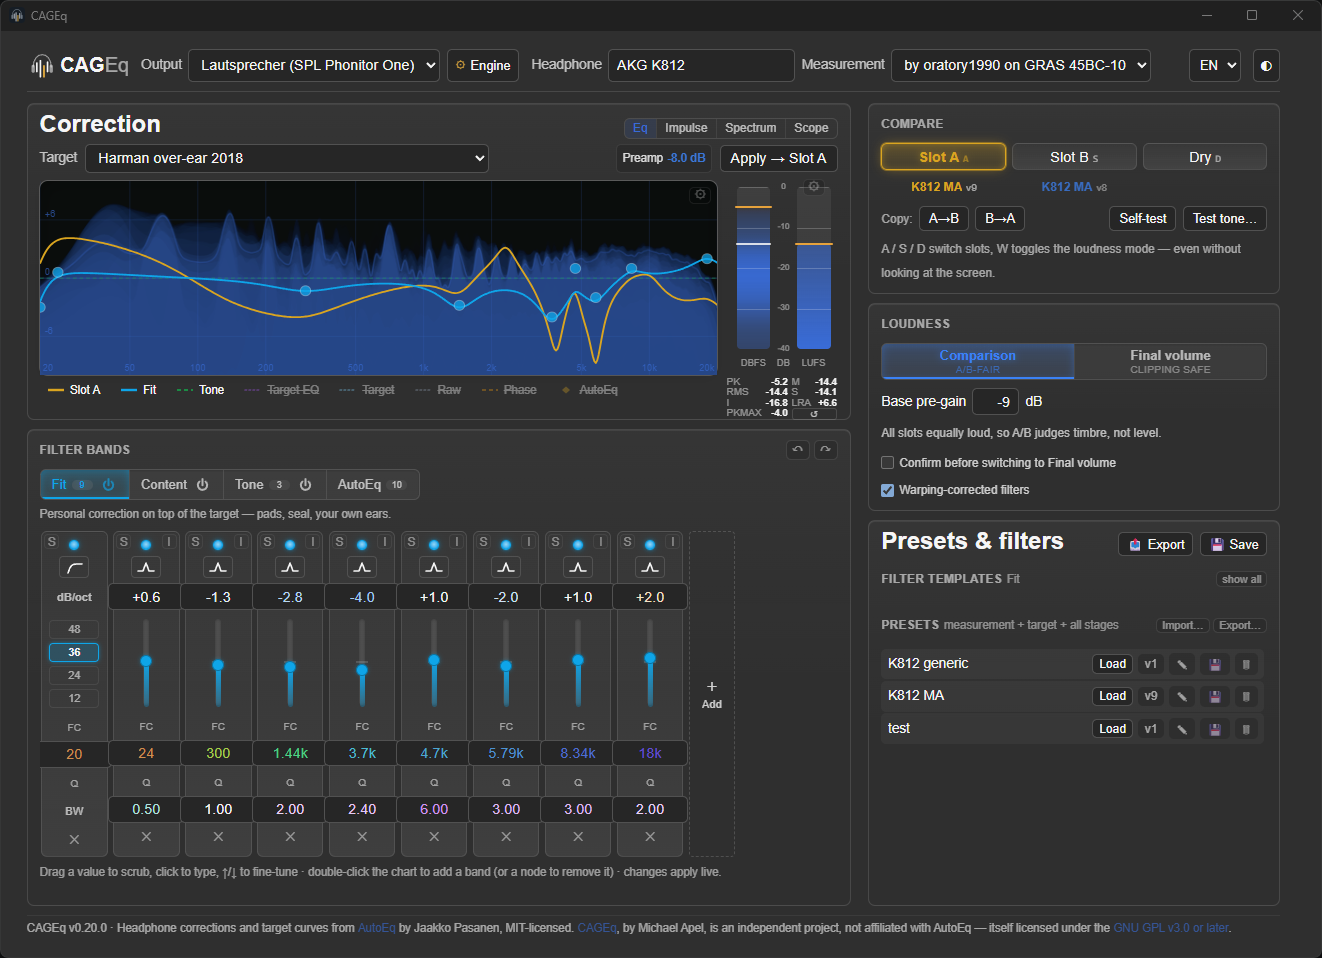
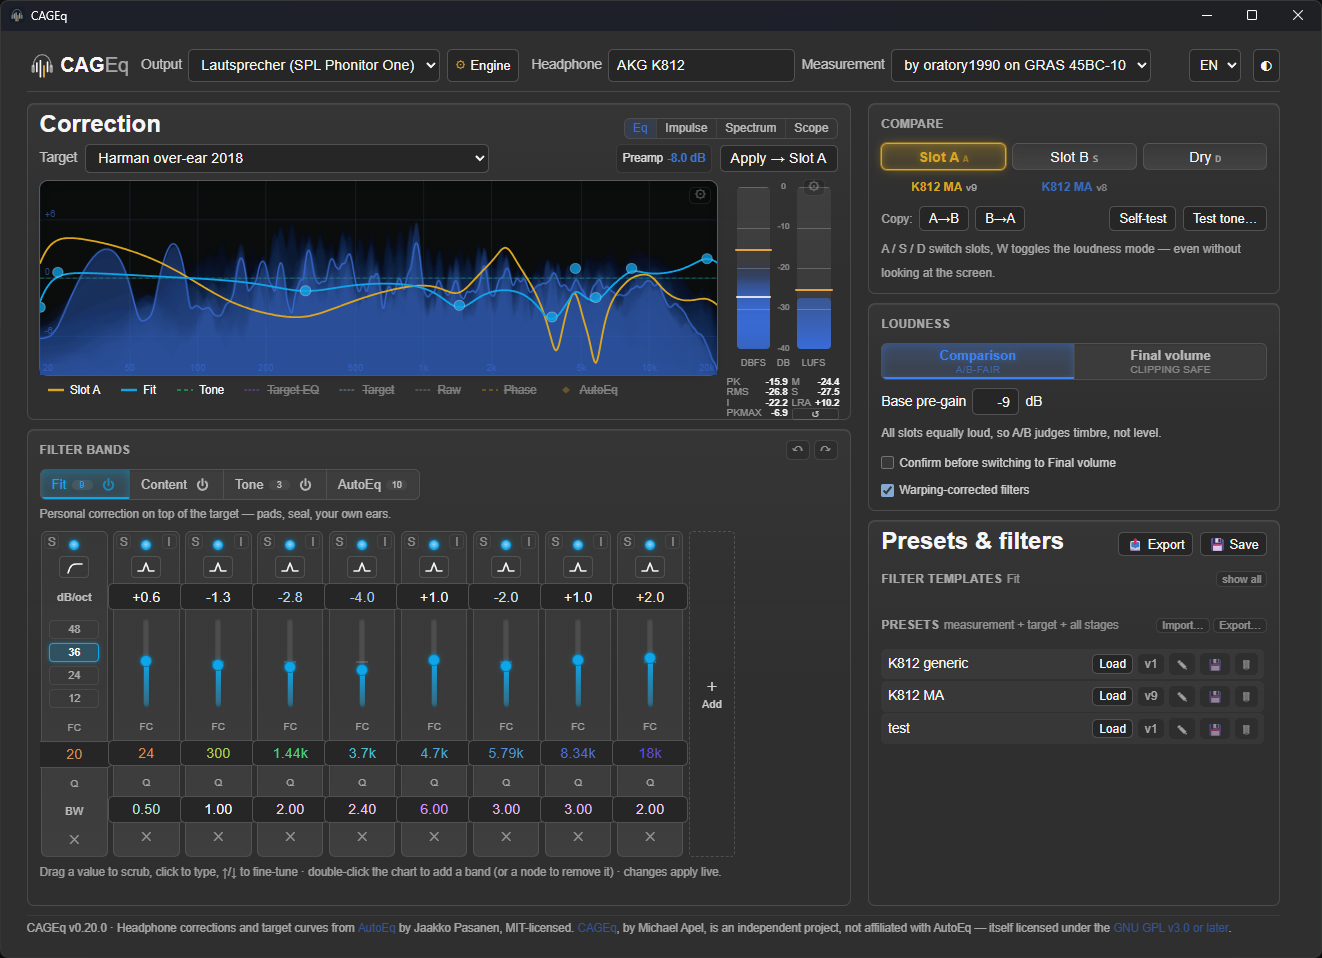
tune(eqchart): nudge the spectrum backdrop's defaults, update the screenshot

diff --git a/cageq-app/src/EqChart.tsx b/cageq-app/src/EqChart.tsx
@@ -267,7 +267,7 @@ type SpecParams = {
 };
 // Tuned live, on linear light (PhosphorOptions' `linearLight`) with the fill and line's own glows:
 // the current window stands out against a long, soft fade of its recent peaks.
-const SPEC_DEFAULTS: SpecParams = { tau: 1.5, tail: 6, glowLine: 1, glowFill: 0.18, saturation: 2, contrast: 2.2, headroom: 1.9, undistort: true, tilt: "rta" };
+const SPEC_DEFAULTS: SpecParams = { tau: 1.5, tail: 6, glowLine: 0.9, glowFill: 0.16, saturation: 2, contrast: 2.2, headroom: 1.8, undistort: true, tilt: "rta" };
 /** Version 1: the one `glowBase` split into `glowLine` and `glowFill`, at the ratio it drew them. */
 const SPEC_PARAMS_MIGRATION: ParamsMigration = {
   version: 1,
